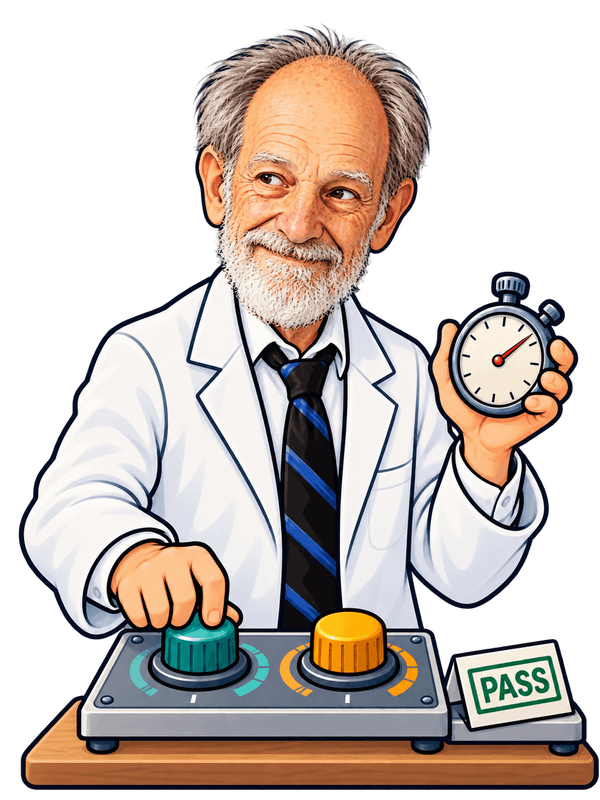
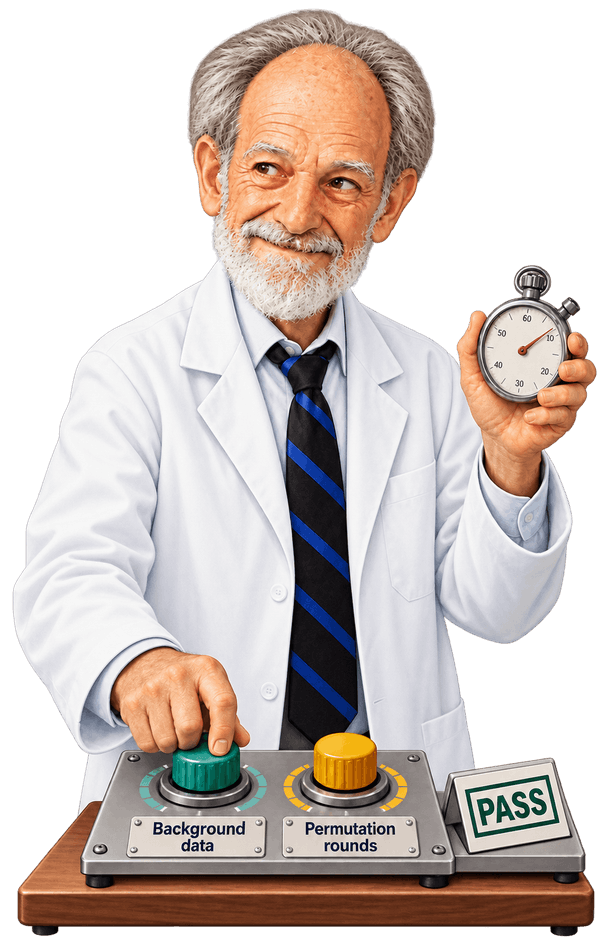
docs: refine SHAP benchmarking illustration

diff --git a/docs/slides/generate_slides.py b/docs/slides/generate_slides.py
@@ -1185,7 +1185,8 @@ def build_presentation():
         properties.append(bullet)
     picture(shap_benchmark, SLIDES_DIR / "assets/shap-benchmarking.png",
             "Illustrated homage to Lloyd Shapley adjusting two knobs while holding "
-            "a stopwatch, with a PASS card on the test bench.", 928, 148, 280, 373.333)
+            "a stopwatch, with labelled background data and permutation rounds knobs "
+            "and a PASS card on the test bench.", 928, 148, 280, 444)
     shap_benchmark_link = text(
         shap_details, "SHAP benchmarking appendix link", "SHAP benchmarking",
         190, 674, 300, 24, 18, color=SECONDARY, underline=True,

diff --git a/docs/slides/storyboard.md b/docs/slides/storyboard.md
@@ -1517,9 +1517,10 @@ explanation stability are indented sub-bullets under quality checks. Keep bullet
 spacing compact, with slightly tighter spacing within the quality-check group.
 Use slide 3’s layout: text in the left column and a vertical
 [illustrated homage to Lloyd Shapley](assets/shap-benchmarking.png) in the right column,
-aligned with the top of the text. Keep the image smaller than slide 3’s to give
-the text column more width and reduce the illustration’s prominence.
-Shapley holds a stopwatch at a test bench with two knobs and a PASS card.
+aligned with the top of the text and extending to its bottom. Keep the image
+narrower than slide 3’s to give the text column more width.
+Shapley holds a stopwatch at a test bench with two knobs labelled “Background
+data” and “Permutation rounds” and a PASS card.
 Keep the transparent background and allow the bullets to wrap within the left
 column without changing their wording or font size.
 Timing scope and deployment testing details remain in the speaker notes.
